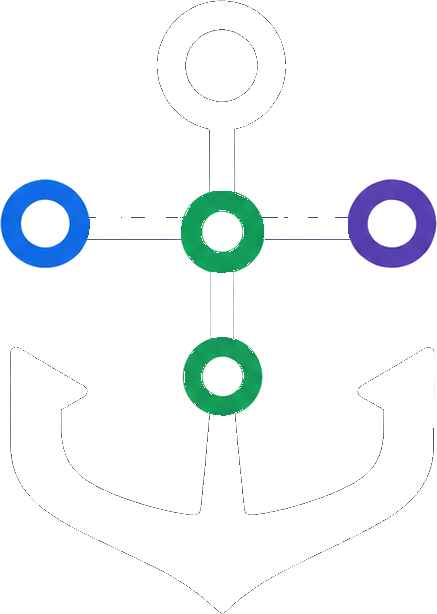
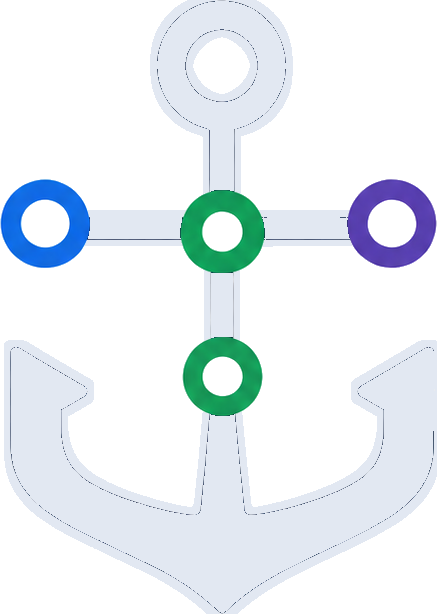
feat(mobile): 새 메시지 점·펼친 방 경계·확대 화면 받기
- 탭 파비콘 빨간 점: 새 메시지(대화별 이 기기에서 본 시각 대비)나 Inbox 새 작업이 있으면 웹·모바일 파비콘에 점
- 모바일 방 목록: 새 메시지 점, 펼친 방과 그 대화 목록을 배경·왼쪽 띠·끝선으로 한 덩어리로
- 다크 로고·파비콘: 닻 몸통이 가는 윤곽선뿐이라 안 보이던 것을 밝게 채우고 헤더 크기에서 가로대가 살게 굵힘
- 확대 화면(뷰어)에 받기 버튼 — 대화 이미지·만든 파일 모두

diff --git a/plugin/scripts/marina-web/chat-render.js b/plugin/scripts/marina-web/chat-render.js
@@ -909,6 +909,38 @@
     }, true);
   }
 
+  // ── 탭 파비콘 빨간 점 ── 형: "슬랙처럼 새 메시지 오면 탭에 레드닷". 웹·모바일이 같은 걸 쓴다.
+  // 원래 아이콘(라이트·다크 두 벌 <link rel=icon>)을 각각 캔버스에 그리고 오른쪽 위에 점을 얹어 바꿔 끼운다.
+  // 신호가 둘 이상(대화·Inbox)이라 이름별로 모아 하나라도 켜져 있으면 점을 찍는다.
+  const faviconSignals = {};
+  let faviconShown = null;
+  function setFaviconDot(name, on) {
+    if (typeof document === "undefined" || typeof document.querySelectorAll !== "function") return;   // 브라우저 밖(테스트 vm)
+    faviconSignals[name] = Boolean(on);
+    const want = Object.values(faviconSignals).some(Boolean);
+    if (want === faviconShown) return;
+    faviconShown = want;
+    document.querySelectorAll('link[rel="icon"]').forEach(link => {
+      if (!link.dataset.baseHref) link.dataset.baseHref = link.getAttribute("href") || "";
+      const base = link.dataset.baseHref;
+      if (!want) { link.setAttribute("href", base); return; }
+      const img = new Image();
+      img.onload = () => {
+        if (!faviconShown) return;                 // 그리는 사이 꺼졌다
+        const c = document.createElement("canvas");
+        c.width = c.height = 64;
+        const g = c.getContext("2d");
+        g.drawImage(img, 0, 0, 64, 64);
+        g.beginPath(); g.arc(50, 14, 12, 0, Math.PI * 2);
+        g.fillStyle = "#e5484d"; g.fill();
+        g.lineWidth = 3; g.strokeStyle = "#ffffff"; g.stroke();
+        link.setAttribute("href", c.toDataURL("image/png"));
+      };
+      img.onerror = () => link.setAttribute("href", base);   // 못 그리면 원래 아이콘이라도
+      img.src = base;
+    });
+  }
+
   window.MarinaChat = {
     configure, setDetailScope, noteDetailToggle, IMAGE_EXT_RE, collectViewables,
     esc, renderInlineMarkdown, renderRichText, mdTableCells, mdIsTableRow, mdIsTableDivider,
@@ -920,6 +952,6 @@
     activityGroupSummary, progressLine, renderActivityItem, renderActivityGroup, reconcileActivityList,
     renderTimelineSequence, questionsFromActivity, pendingQuestionActivity,
     questionFallbackText, renderQuestionCard, renderAnsweredQuestion, renderConversationSequence, pendingKeyPart,
-    timelineItemKeyParts, exchangeRenderKey, tableTsv,
+    timelineItemKeyParts, exchangeRenderKey, tableTsv, setFaviconDot,
   };
 })();

diff --git a/plugin/scripts/marina-web/app-11-chat.js b/plugin/scripts/marina-web/app-11-chat.js
@@ -104,7 +104,32 @@
         if (i === chatActive) { t.seenTs = ts; if (t.unread) { t.unread = false; changed = true; } return; }
         if (ts > (t.seenTs || 0) && !t.unread) { t.unread = true; changed = true; }
       });
+      window.MarinaChat.setFaviconDot('chat', anyAgentUnseen());
       if (changed && !chatPane().hidden) renderChatPane();
+    }
+    // 탭 파비콘 점은 **모든 대화** 기준이다(열어 둔 탭만 보면 안 연 대화의 새 메시지를 놓친다 — 리뷰 지적).
+    // 대화마다 이 기기에서 마지막으로 본 시각을 기억하고, 처음엔 전부 본 걸로 시작한다(모바일 방 목록과 같은 규칙).
+    // 지금 화면에 떠 있는 대화 탭(창이 보일 때)만 본 걸로 친다.
+    const WEB_SEEN_STORE = 'marinaWebSeenAgents';
+    let webSeen = null;
+    function anyAgentUnseen() {
+      if (!webSeen) {
+        try { webSeen = JSON.parse(localStorage.getItem(WEB_SEEN_STORE) || 'null'); } catch (_) { webSeen = null; }
+      }
+      const seed = !webSeen;
+      if (seed) webSeen = {};
+      let changed = seed, unseen = false;
+      const active = chatTabs[chatActive];
+      const viewing = active && !document.hidden && !chatPane().hidden ? `${active.root} ${active.source} ${active.sid}` : '';
+      worktreeData.forEach(wt => (wt.agents || []).forEach(a => {
+        if (!a.sid) return;
+        const key = `${wt.root} ${a.source} ${a.sid}`;
+        const ts = Number(a.statusTs || a.ts || 0);
+        if (seed || key === viewing) { if ((webSeen[key] || 0) < ts) { webSeen[key] = ts; changed = true; } return; }
+        if (!(key in webSeen) ? ts > 0 : ts > webSeen[key] + 1) unseen = true;
+      }));
+      if (changed) { try { localStorage.setItem(WEB_SEEN_STORE, JSON.stringify(webSeen)); } catch (_) {} }
+      return unseen || chatTabs.some(t => t.unread);
     }
 
     // AGENTS 행 진입점 — 이미 열린 세션이면 새 탭이 아니라 그 탭으로 간다(브라우저와 같은 감각).

diff --git a/plugin/scripts/marina-web/app-1-core.js b/plugin/scripts/marina-web/app-1-core.js
@@ -103,6 +103,7 @@
       if (!button || !count || !panel) return;
       const entries = agentInboxEntries();
       const unread = entries.filter(item => !agentInboxRead.has(item.eventId)).length;
+      if (window.MarinaChat) window.MarinaChat.setFaviconDot('inbox', unread > 0);   // 이 파일이 렌더러보다 먼저 로드된다
       count.hidden = unread === 0;
       count.textContent = unread > 99 ? '99+' : String(unread);
       button.classList.toggle('has-unread', unread > 0);

diff --git a/plugin/scripts/marina_mobile.py b/plugin/scripts/marina_mobile.py
@@ -2984,17 +2984,28 @@ _MOBILE_HTML = r"""<!doctype html>
     /* 방 안 — **누른 카드 바로 밑**에서 펼쳐진다(목록 위에 얹던 상자를 없앴다).
        카드와 한 몸으로 읽혀야 하므로 테두리를 두르지 않는다: 왼쪽 레일 하나와 배경만으로
        "이 카드에 딸린 것"을 말한다. 상자를 또 그리면 목록 안에 상자가 겹친다. */
-    .roomAcc { background: var(--panel); border-bottom: 1px solid var(--line);
-               padding: 2px 0 8px 0; }
+    .roomAcc { background: var(--open-bg); border-bottom: 1px solid var(--open-edge);
+               padding: 2px 0 8px 0; margin-bottom: 6px; box-shadow: inset 3px 0 0 var(--open-rail); }
     .roomAcc > * { margin-left: 22px; }         /* 레일만큼 들여쓴다 — 부모-자식이 눈에 보이게 */
     .roomAcc { position: relative; }
     .roomAcc::before { content: ""; position: absolute; left: 12px; top: 2px; bottom: 10px;
-                       width: 1px; background: var(--line); }
+                       width: 1px; background: var(--open-edge); }
     .roomRow.open { border-bottom-color: transparent; }
     /* 펼친 카드는 이름을 풀어 준다 — 목록에서만 줄인다는 규칙은 그대로고, 열어 본 방에서는
        원래 이름이 보여야 한다(예전엔 패널 머리가 그 몫이었다). */
     .roomRow.open .roomName { white-space: normal; overflow: visible; }
-    .roomRow.open .roomCard { background: var(--panel); }
+    /* 펼친 카드 + 그 아래 목록을 **한 덩어리**로 — 같은 배경 + 왼쪽 색띠, 끝에 선과 여백(형: "경계가 분간 안 돼").
+       예전엔 배경이 목록과 거의 같은 색(--panel)이고 레일이 1px 흐린 선이라 어디까지가 펼친 것인지 안 보였다. */
+    .roomRow.open { background: var(--open-bg); box-shadow: inset 3px 0 0 var(--open-rail); }
+    .roomRow.open .roomCard { background: transparent; }
+    /* "지금 방"(.here)이면서 펼친 방 — 띠는 "지금 방" 색을 따른다. 라이트·다크가 같은 규칙을 쓰게 명시한다
+       (같은 세기의 두 규칙이 소스 순서로만 갈리면 다크 블록이 뒤에 있어 모드마다 이기는 쪽이 달라진다). */
+    .roomRow.here.open { background: var(--open-bg); box-shadow: inset 3px 0 0 var(--here-rail); }
+    /* 새 메시지 — 이름 옆 빨간 점. */
+    .roomNameLine { display: flex; align-items: center; gap: 6px; min-width: 0; }
+    .roomNameLine .roomName { min-width: 0; }
+    .unreadDot { flex: none; display: inline-block; width: 8px; height: 8px; border-radius: 50%; background: #e5484d; }
+    .roomTab .unreadDot { margin-right: 7px; vertical-align: 1px; }
     /* 아코디언 안 가름줄 — 위는 "새로 시작", 아래는 "이미 있는 대화". 실선을 쓰면 상자가
        하나 더 생긴 것처럼 읽혀서 점선으로 얕게만 나눈다. */
     .roomAccSplit { border-top: 1px dashed #d6dde6; margin: 0 8px 8px; }
@@ -3123,7 +3134,8 @@ _MOBILE_HTML = r"""<!doctype html>
             /* 방 화면이 쓰는 토큰. **정의가 없으면 그 선언 전체가 무효**가 되어 테두리·배경이
                통째로 사라진다(형: "카드 아름답게 깨진다") — 실측으로 방 패널의 탭·버튼·상자
                테두리가 전부 0px none 이었다. 색은 이미 쓰던 값과 같다. */
-            --line: #e3e7ed; --panel: #f4f7fb; }
+            --line: #e3e7ed; --panel: #f4f7fb;
+            --open-bg: #eaf0f9; --open-edge: #c3d2e6; --open-rail: #5b8fd6; --here-rail: #0b63ce; }
     .session-status { flex: 0 0 auto; display: inline-flex; align-items: center; gap: 4px; }
     .session-status-label { font-size: 10px; font-weight: 850; color: #747d8b; white-space: nowrap; }
     .wt-dot { flex: none; width: 13px; height: 13px; border-radius: 50%; display: inline-flex; align-items: center; justify-content: center; font-size: 8px; line-height: 1; box-sizing: border-box; }
@@ -3358,6 +3370,9 @@ _MOBILE_HTML = r"""<!doctype html>
     .viewerDoc { display: none; flex: 1; min-height: 0; margin: 0 8px calc(8px + env(safe-area-inset-bottom)); padding: 14px 14px 20px; overflow: auto; border-radius: 10px; background: #fff; color: #1c2330; font-size: 14px; line-height: 1.6; overflow-wrap: anywhere; }
     .viewerDoc > :first-child { margin-top: 0; }
     .viewerFrame { display: none; flex: 1; min-height: 0; width: calc(100% - 16px); margin: 0 8px calc(8px + env(safe-area-inset-bottom)); border: 0; border-radius: 10px; background: #fff; }
+    /* 확대 화면에서 바로 받기(형: "디테일 확대 화면에서 다운로드도"). 닫기 버튼과 같은 모양. */
+    .viewerSave { display: inline-flex; align-items: center; justify-content: center; width: 34px; height: 34px; flex: none; border-radius: 17px; background: rgb(255 255 255 / 14%); color: #fff; font-size: 16px; text-decoration: none; }
+    .viewerSave[hidden] { display: none; }
     .imageViewerClose { width: 34px; min-height: 34px; flex: none; padding: 0; border-radius: 17px; background: rgb(255 255 255 / 14%); color: #fff; border-color: transparent; font-size: 19px; }
     /* 세션 탭 — 가로 스크롤 한 줄. 목록 뷰에선 숨긴다(거기선 목록 자체가 탐색이다). */
     .navTrigger { display: flex; align-items: center; gap: 6px; min-width: 0; flex: 1 1 auto;
@@ -3550,7 +3565,8 @@ _MOBILE_HTML = r"""<!doctype html>
                  font-size: 12px; font-weight: 800; cursor: pointer; }
     @media (prefers-color-scheme: dark) {
       :root { --st-run: #34c98e; --st-boot: #f0a132; --st-err: #e5484d; --st-stop: #5a5f6a;
-              --line: #303846; --panel: #171d27; }
+              --line: #303846; --panel: #171d27;
+              --open-bg: #172133; --open-edge: #34465f; --open-rail: #4b8fe0; --here-rail: #4b8fe0; }
       body { background: #11151c; color: #f4f6f9; }
       header, select, textarea, input, button { background: #171d27; color: #f4f6f9; border-color: #303846; }
       label, p, .status { color: #a5adba; }
@@ -3837,7 +3853,7 @@ _MOBILE_HTML = r"""<!doctype html>
       </section>
     </div>
     <div class="imageViewer" id="imageViewer" aria-hidden="true">
-      <div class="viewerBar" id="viewerBar"><span class="viewerName" id="viewerName"></span><span class="viewerCount" id="viewerCount"></span><button class="imageViewerClose" id="imageViewerClose" type="button" aria-label="닫기">&#215;</button></div>
+      <div class="viewerBar" id="viewerBar"><span class="viewerName" id="viewerName"></span><span class="viewerCount" id="viewerCount"></span><a class="viewerSave" id="viewerSave" hidden aria-label="받기" title="받기">&#11015;</a><button class="imageViewerClose" id="imageViewerClose" type="button" aria-label="닫기">&#215;</button></div>
       <img id="imageViewerImg" alt="" />
       <pre class="viewerText" id="viewerText"></pre>
       <div class="viewerDoc" id="viewerDoc"></div>
@@ -4273,6 +4289,7 @@ _MOBILE_HTML = r"""<!doctype html>
     const imageViewerImg = document.getElementById("imageViewerImg");
     const viewerText = document.getElementById("viewerText");
     const viewerDoc = document.getElementById("viewerDoc");
+    const viewerSave = document.getElementById("viewerSave");
     const viewerFrame = document.getElementById("viewerFrame");
     const viewerName = document.getElementById("viewerName");
     const viewerBar = document.getElementById("viewerBar");
@@ -4576,6 +4593,8 @@ _MOBILE_HTML = r"""<!doctype html>
       viewerDead.style.display = "none";
       viewerName.textContent = "";
       viewerCount.textContent = "";
+      viewerSave.hidden = true;
+      viewerSave.removeAttribute("href");
       viewerList = [];
       viewerSeq += 1;
     }
@@ -4627,6 +4646,14 @@ _MOBILE_HTML = r"""<!doctype html>
       viewerDead.style.display = "none";
 
       const url = viewerUrlOf(item);
+      // 받기 — 지금 보는 것을 그대로(대화 이미지·만든 파일 모두). 이름이 없는 대화 이미지는 번호를 붙인다.
+      viewerSave.hidden = !(url && item.servable !== false);
+      if (!viewerSave.hidden) {
+        viewerSave.href = url;
+        const 이름 = String((item.path || "").split("/").pop() || item.name || "");
+        viewerSave.setAttribute("download", item.type === "image" || !/\.[a-z0-9]{1,5}$/i.test(이름)
+          ? `marina-image-${String(item.ref || viewerIdx + 1).replace(/[^\w-]/g, "")}.png` : 이름);
+      }
       if (item.servable === false || !url) {
         // 목록에서 빼지 않는다 — 조용히 건너뛰면 n/N 개수가 어긋나 형이 헷갈린다.
         viewerDead.style.display = "block";
@@ -4887,6 +4914,46 @@ _MOBILE_HTML = r"""<!doctype html>
     // ROOM_LIST_START  (테스트가 이 블록을 vm 에 싣는다)
     // 방 목록 — 폰을 열면 이게 첫 화면이다.
     //
+    // 새 메시지 빨간 점(형: "슬랙처럼 레드닷"). 대화마다 **이 기기에서 마지막으로 본 시각**을 기억하고,
+    // 서버가 주는 그 대화의 마지막 활동 시각(tab.ts)이 더 새로우면 점을 찍는다. 처음 켤 땐 전부 본 걸로
+    // 시작한다 — 안 그러면 방마다 점이 뜬다. 그 뒤에 처음 보는 대화는 "새 대화"라 점을 찍는다.
+    const SEEN_STORE = "marinaSeenTabs";
+    let seenTabs = null;   // {"<root>|<source>:<sid>": ts}
+    function seenMap() {
+      if (seenTabs) return seenTabs;
+      try { seenTabs = JSON.parse(localStorage.getItem(SEEN_STORE) || "null"); } catch (_) { seenTabs = null; }
+      return seenTabs;
+    }
+    function saveSeen() {
+      try { localStorage.setItem(SEEN_STORE, JSON.stringify(seenTabs || {})); } catch (_) {}
+    }
+    function seenKeyOf(root, source, sid) { return `${root}|${source}:${sid}`; }
+    // 처음이면 지금 있는 대화를 전부 본 걸로 깔아 둔다.
+    function seedSeen(rooms) {
+      if (seenMap()) return;
+      seenTabs = {};
+      (rooms || []).forEach(room => (room.tabs || []).forEach(tab => {
+        seenTabs[seenKeyOf(room.root, tab.source, tab.sid)] = Number(tab.ts || 0);
+      }));
+      saveSeen();
+    }
+    function markTabSeen(root, source, sid, ts) {
+      const map = seenMap();
+      if (!map || !root || !sid) return;
+      const key = seenKeyOf(root, source, sid);
+      const at = Number(ts || 0);
+      if ((map[key] || 0) >= at && key in map) return;
+      map[key] = at;
+      saveSeen();
+    }
+    function tabUnread(room, tab) {
+      const map = seenMap();
+      if (!map || tab.hidden || tab.deleted || tab.roleOf) return false;
+      const seen = map[seenKeyOf(room.root, tab.source, tab.sid)];
+      return seen === undefined ? Number(tab.ts || 0) > 0 : Number(tab.ts || 0) > seen + 1;   // 1초 여유(시계·반올림)
+    }
+    function roomUnread(room) { return !room.archived && (room.tabs || []).some(tab => tabUnread(room, tab)); }
+    //
     // 상태의 심각도 순서. **정렬에는 더 이상 쓰지 않는다**(목록은 최근 순 — renderRooms 참조).
     // 남겨두는 이유: 방 하나에 대화가 여럿일 때 어느 상태로 접을지 서버가 이 순서로 정하고,
     // 화면도 같은 어휘를 써야 하기 때문이다(marina_rooms.ROOM_STATUS_ORDER 와 짝).
@@ -5001,8 +5068,8 @@ _MOBILE_HTML = r"""<!doctype html>
           <div class="roomCard" data-room="${esc(room.root)}">
             <span class="roomIcon">${esc(ROOM_ICON[status] || ROOM_ICON["대기"])}</span>
             <span class="roomBody">
-              <button class="roomName" type="button">${esc(펼침 ? (room.name || room.shortName || "")
-                                                  : (room.shortName || room.name || ""))}</button>
+              <span class="roomNameLine"><button class="roomName" type="button">${esc(펼침 ? (room.name || room.shortName || "")
+                                                  : (room.shortName || room.name || ""))}</button>${roomUnread(room) ? '<span class="unreadDot" role="img" aria-label="새 메시지"></span>' : ""}</span>
               <span class="metaRow">
                 <span class="roomMeta">${esc(막힘 ? 막힘 : roomStatusLabel(status) + where)}</span>
                 ${배지}${묶음}
@@ -5072,7 +5139,8 @@ _MOBILE_HTML = r"""<!doctype html>
           ? `<button class="roomTabUnhide" type="button" data-unhide="${esc(key)}">숨김 해제</button>`
           : (tab.stale ? '<span class="roomTabNote">오래됨</span>' : "")
             + `<button class="roomMore roomTabMore" type="button" data-chat-menu="${esc(key)}" aria-label="대화 메뉴">⋯</button>`;
-        return `<div class="roomTabRow"><button class="${cls}" type="button" data-tab="${esc(key)}">${esc(tab.title || key)}</button>${꼬리}</div>`;
+        const 점 = tabUnread(room, tab) ? '<span class="unreadDot" role="img" aria-label="새 메시지"></span>' : "";
+        return `<div class="roomTabRow"><button class="${cls}" type="button" data-tab="${esc(key)}">${점}${esc(tab.title || key)}</button>${꼬리}</div>`;
       }).join("");
       const 딸린 = 역할들.map(tab => `<div class="roleRow"><span>↳ 🔍</span><span class="grow">${esc(tab.roleOf.role === "reviewer" ? "리뷰어" : tab.roleOf.role)} <span class="st">· 읽기 전용</span></span><span class="st">진행 중</span></div>`).join("");
       return 시작줄 + 가름줄 + `<div class="roomTabs">${strip}${딸린}</div>`;
@@ -6706,6 +6774,7 @@ _MOBILE_HTML = r"""<!doctype html>
     function renderInbox() {
       const items = inboxSessions();
       const unread = items.filter(item => !inboxRead.has(item.eventId)).length;
+      window.MarinaChat.setFaviconDot("inbox", unread > 0);
       inboxCount.textContent = unread > 99 ? "99+" : String(unread);
       inboxMenuBtn.title = unread ? `새 작업 ${unread}개` : "확인할 새 작업 없음";
       if (!inboxSheet.classList.contains("open")) return;
@@ -7741,12 +7810,15 @@ _MOBILE_HTML = r"""<!doctype html>
       // 사라진 방은 접는다. **여기서 closeRoom 을 부르지 않는다** — closeRoom 이 다시
       // renderRoomList 를 불러 한 바퀴 더 돈다. 상태만 정리하고 아래에서 한 번에 그린다.
       if (openRoomRoot && !roomByRoot(openRoomRoot)) { openRoomRoot = ""; closeRoomMenu(); }
+      seedSeen(방들);
+      markViewingSeen(방들);
       const 스크롤 = listView.scrollTop;     // 폴 재렌더가 보던 자리를 잃지 않게
       roomList.innerHTML = renderRooms(방들, Date.now() / 1000, showArchivedRooms,
                                        sessionSearch.value, selectedProjectId,
                                        openRoomRoot, launchSources());
       listView.scrollTop = 스크롤;
       if (drawerOpen()) markCurrentRoom();   // 폴 재렌더가 '지금 방' 표시를 지우지 않게
+      window.MarinaChat.setFaviconDot("rooms", 방들.some(roomUnread));
       // 방이 하나도 없으면 예전 세션 목록을 되살린다. 서버가 rooms 를 못 만들었을 때
       // (옛 데몬·조립 실패) 빈 화면만 남으면 형은 앱이 고장난 줄 안다 — 목록이 안 뜨면
       // 아무것도 못 하므로, 방은 부가정보고 세션 목록이 생명줄이다.
@@ -7756,6 +7828,18 @@ _MOBILE_HTML = r"""<!doctype html>
       // 종류 탭(claude/codex/터미널)은 **세션** 개념이라 방 목록에는 안 먹는다. 보이기만 하고
       // 아무 일도 안 하면 UI 가 거짓말을 하는 것이라, 방 목록일 때는 아예 숨긴다.
       sourceTabs.hidden = !방없음;
+    }
+    // 지금 화면에 떠 있는 대화는 본 것이다 — 화면이 꺼져 있거나(백그라운드) 목록만 보고 있으면 아니다.
+    function markViewingSeen(방들) {
+      if (document.visibilityState === "hidden") return;
+      if ((document.getElementById("mobileApp") || {dataset: {}}).dataset.view !== "chat") return;
+      const value = currentTargetValue();
+      if (!String(value || "").startsWith("agent:")) return;
+      const [, source, sid] = value.split(":");
+      const root = sessionRoot();
+      const room = (방들 || []).find(r => r.root === root);
+      const tab = room && (room.tabs || []).find(t => t.source === source && t.sid === sid);
+      markTabSeen(root, source, sid, tab ? tab.ts : Date.now() / 1000);
     }
     function launchSources() {
       const opts = state.agentOptions || {};
